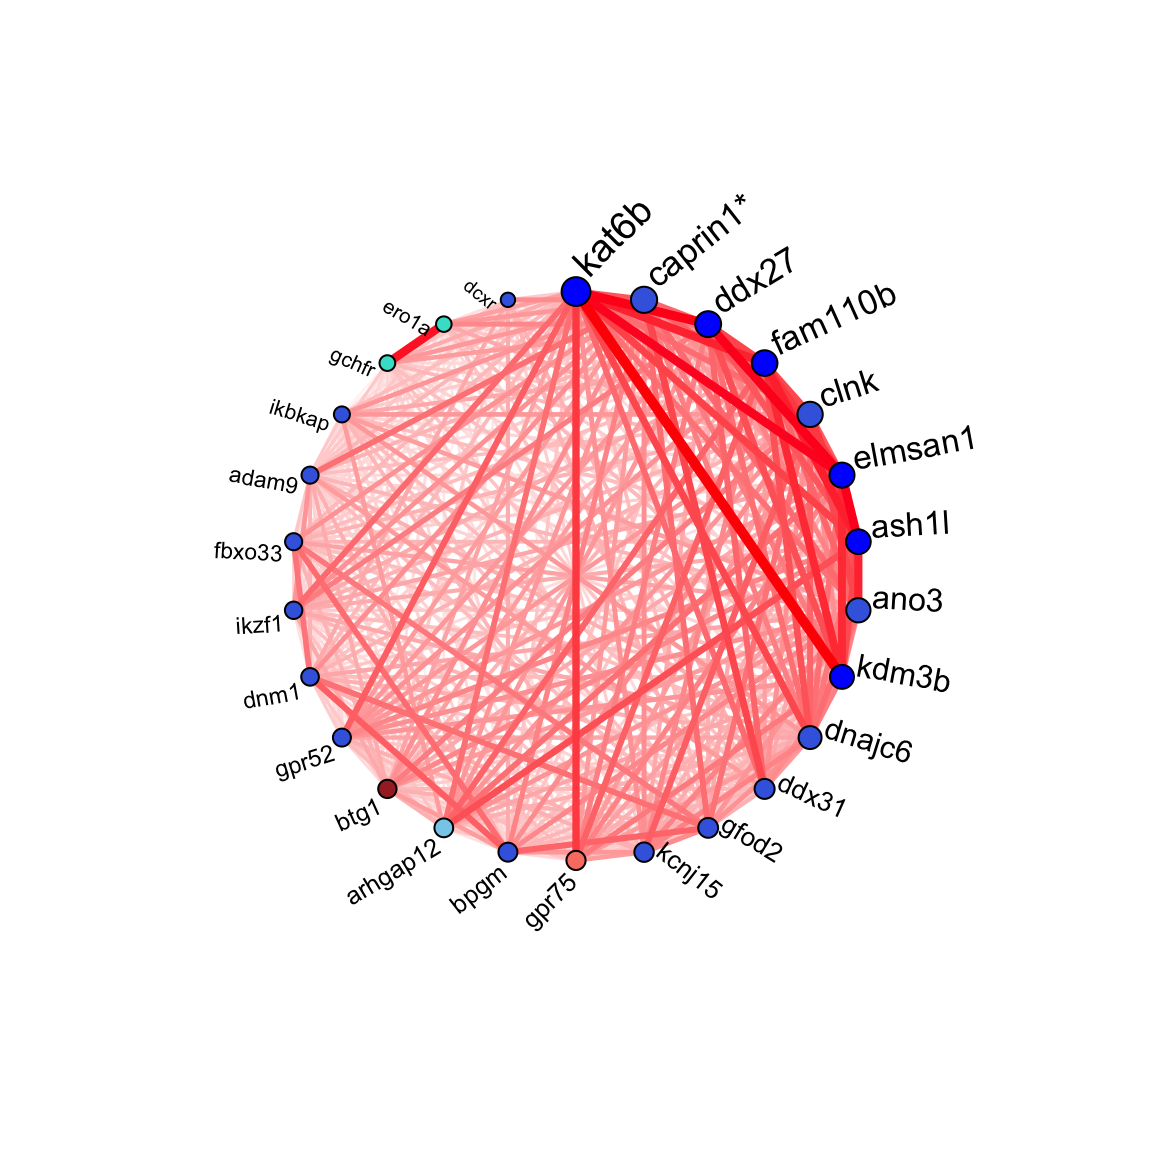
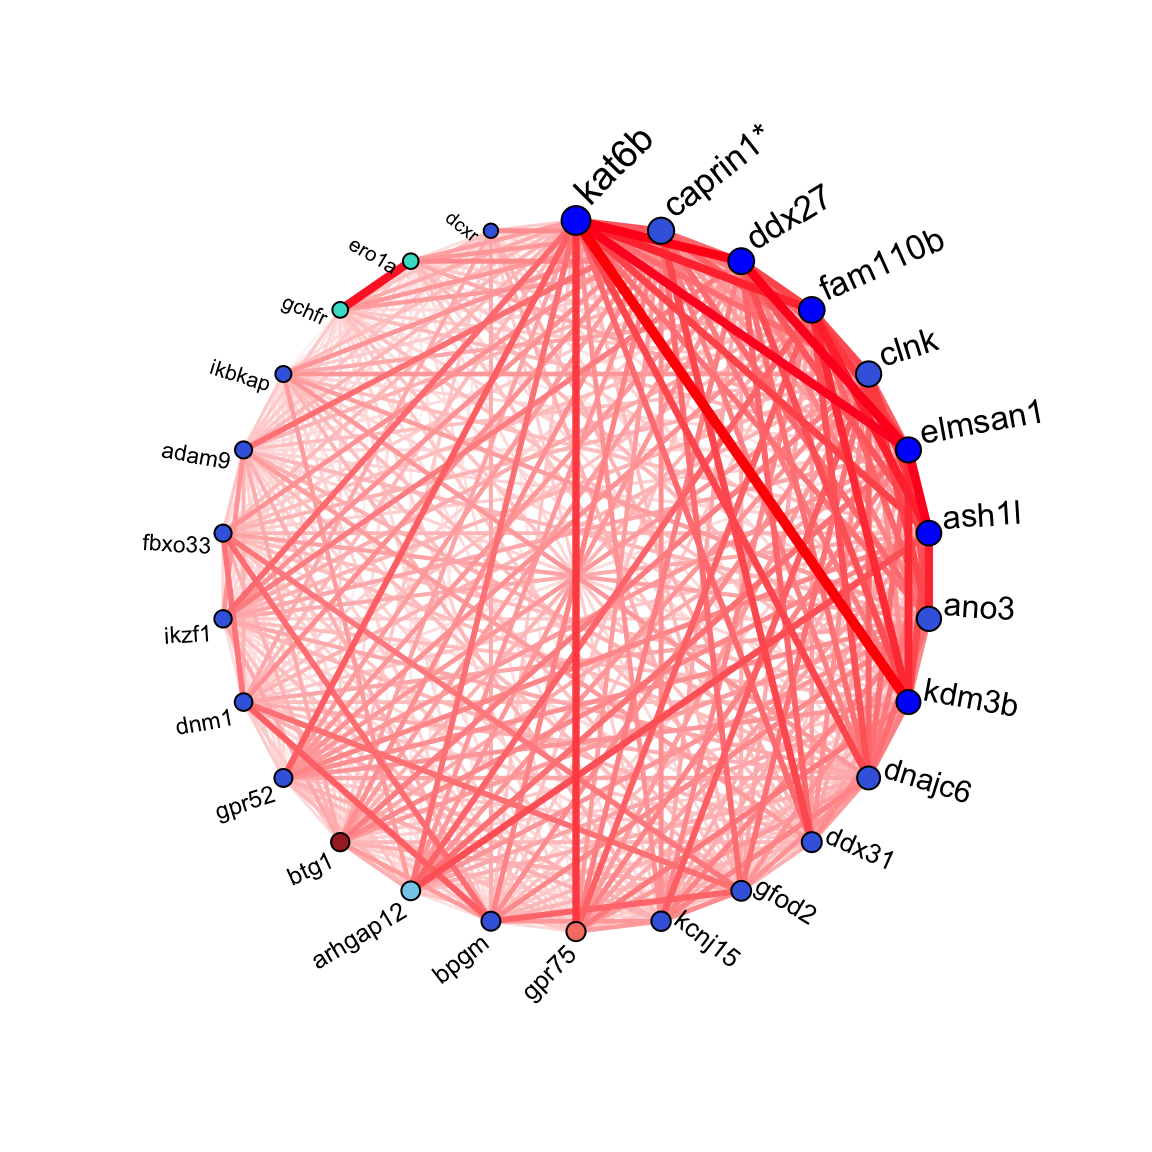
Build site.

diff --git a/docs/NN_from_TOM.html b/docs/NN_from_TOM.html
@@ -346,7 +346,7 @@ div.section {
 </details>
 </li>
 <li>
-<p><details> <summary> <strong style="color:blue;">✔</strong> <strong>Repository version:</strong> <a href="https://github.com/AustinTHilliard/networks/tree/e8feebf69786d9f7de40c3f90b092416accc1d15" target="_blank">e8feebf</a> </summary></p>
+<p><details> <summary> <strong style="color:blue;">✔</strong> <strong>Repository version:</strong> <a href="https://github.com/AustinTHilliard/networks/tree/1b6308b257270627c886b6d50f64534a10218675" target="_blank">1b6308b</a> </summary></p>
 Great! You are using Git for version control. Tracking code development and connecting the code version to the results is critical for reproducibility. The version displayed above was the version of the Git repository at the time these results were generated. <br><br> Note that you need to be careful to ensure that all relevant files for the analysis have been committed to Git prior to generating the results (you can use <code>wflow_publish</code> or <code>wflow_git_commit</code>). workflowr only checks the R Markdown file, but you know if there are other scripts or data files that it depends on. Below is the status of the Git repository when the results were generated:
 <pre><code>
 Ignored files:
@@ -381,6 +381,40 @@ Message
 </tr>
 </thead>
 <tbody>
+<tr>
+<td style="text-align:left;">
+Rmd
+</td>
+<td style="text-align:left;">
+<a href="https://github.com/AustinTHilliard/networks/blob/1b6308b257270627c886b6d50f64534a10218675/analysis/NN_from_TOM.Rmd" target="_blank">1b6308b</a>
+</td>
+<td style="text-align:left;">
+AustinTHilliard
+</td>
+<td style="text-align:left;">
+2018-08-12
+</td>
+<td style="text-align:left;">
+wflow_publish(all = T)
+</td>
+</tr>
+<tr>
+<td style="text-align:left;">
+html
+</td>
+<td style="text-align:left;">
+<a href="https://cdn.rawgit.com/AustinTHilliard/networks/b2f5ada64f7eea0dd5370b546d645f5521dd6a46/docs/NN_from_TOM.html" target="_blank">b2f5ada</a>
+</td>
+<td style="text-align:left;">
+AustinTHilliard
+</td>
+<td style="text-align:left;">
+2018-08-12
+</td>
+<td style="text-align:left;">
+Build site.
+</td>
+</tr>
 <tr>
 <td style="text-align:left;">
 Rmd
@@ -1347,7 +1381,7 @@ xTOM = TOM[xgenes, xgenes]
 xlabels = gene1nn_genes
 xlabels[1] = paste0(xlabels[1],&quot;*&quot;)
 
-par(mai=c(1,1,1,1))
+par(mai=c(.5,.5,.5,.5))
 .circlePlot(adjacency=xTOM, 
            labels=xlabels, 
            order=order(-apply(xTOM,1,sum)),
